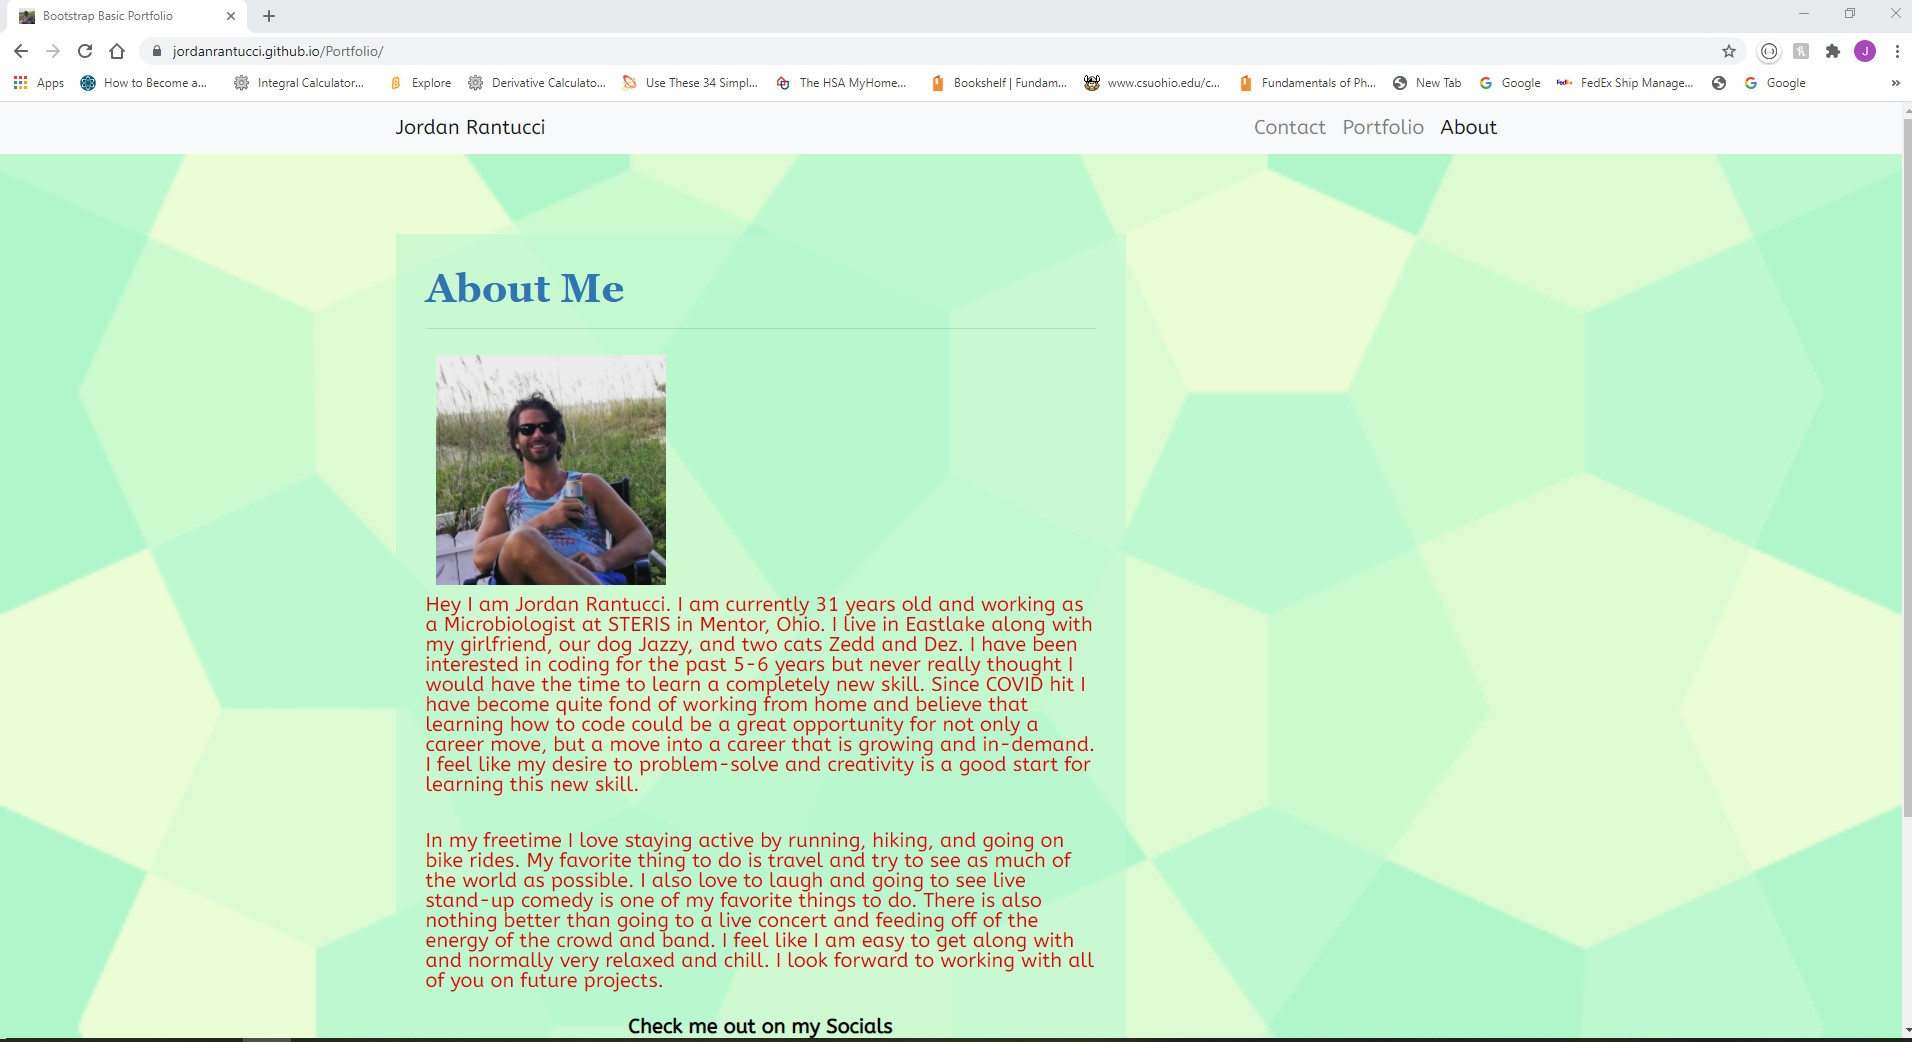
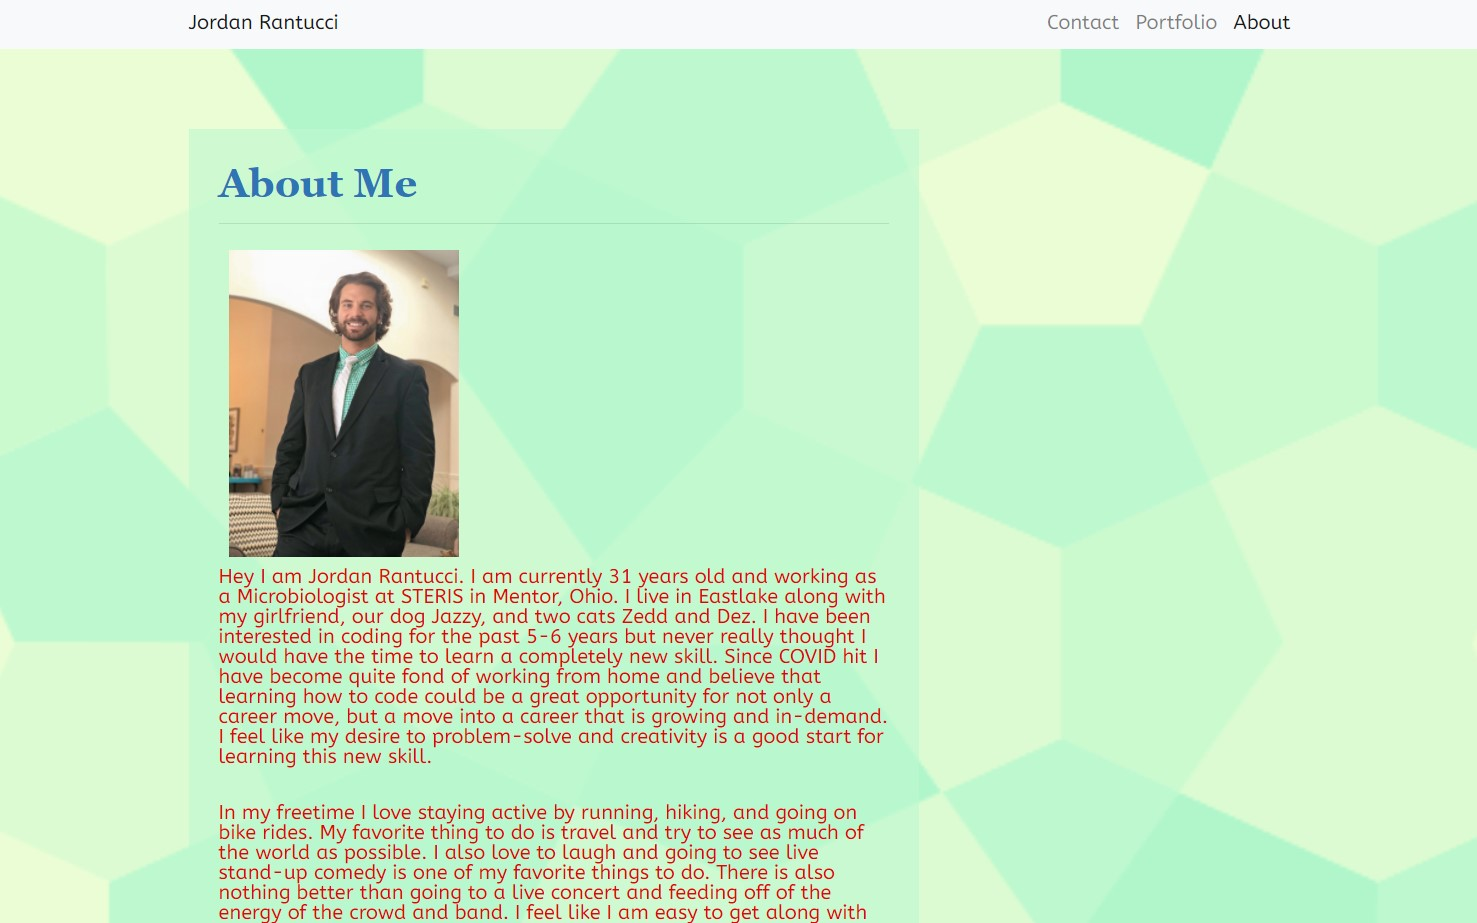
adding new profile image

diff --git a/index.html b/index.html
@@ -63,7 +63,7 @@
         <article class="block">
           <h1 class="block-header">About Me</h1>
           <hr />
-          <img src="Assets/Images/at-the-beach.jpeg.JPG" alt="Jordan-at-the-beach" id="profile-image" />
+          <img src="Assets/Images/professional.jpg" alt="Professional" id="profile-image" />
           <p id="about-me-text">Hey I am Jordan Rantucci.  I am currently 31 years old and working as a Microbiologist at STERIS in Mentor, Ohio.
             I live in Eastlake along with my girlfriend, our dog Jazzy, and two cats Zedd and Dez.  I have been interested in coding
             for the past 5-6 years but never really thought I would have the time to learn a completely new skill.  Since COVID hit I have become

diff --git a/Assets/styles.css b/Assets/styles.css
@@ -29,7 +29,6 @@ main {
 
 
 #profile-image {
-  height:250px;
   width: 250px;
   padding:10px;
 }
@@ -159,7 +158,6 @@ html.is-leaving .transition-fade {
   }
  
   #profile-image {
-    height: 150px;
     width: 150px;
     padding:10px;
   }
